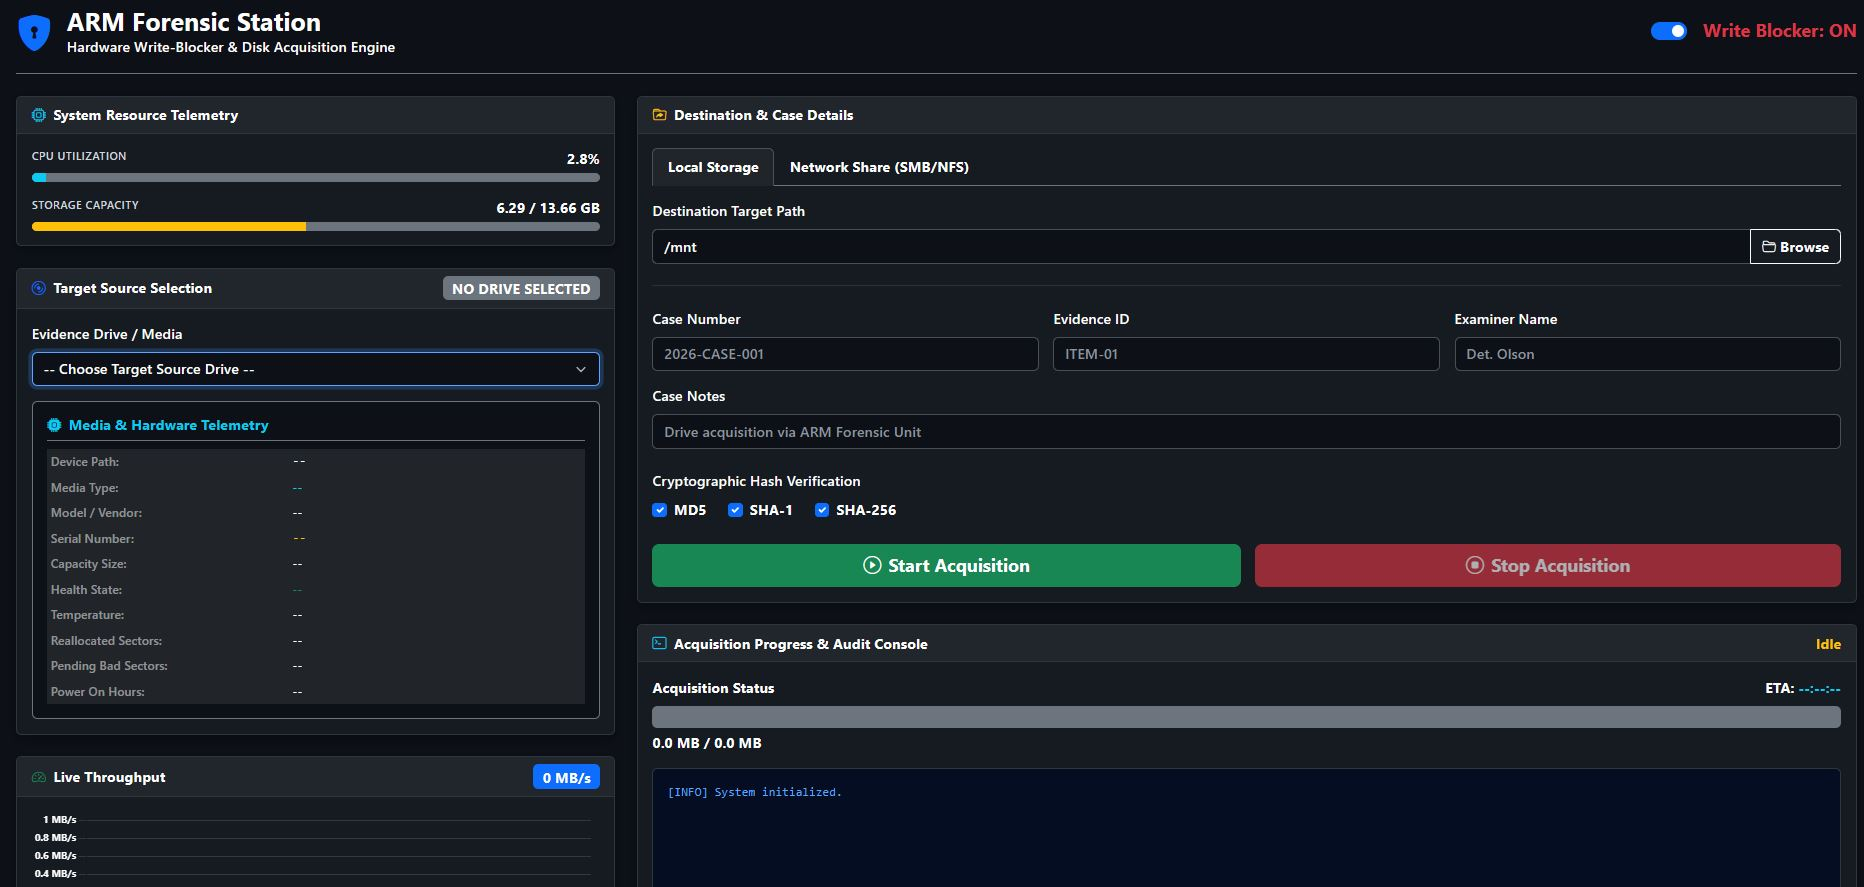
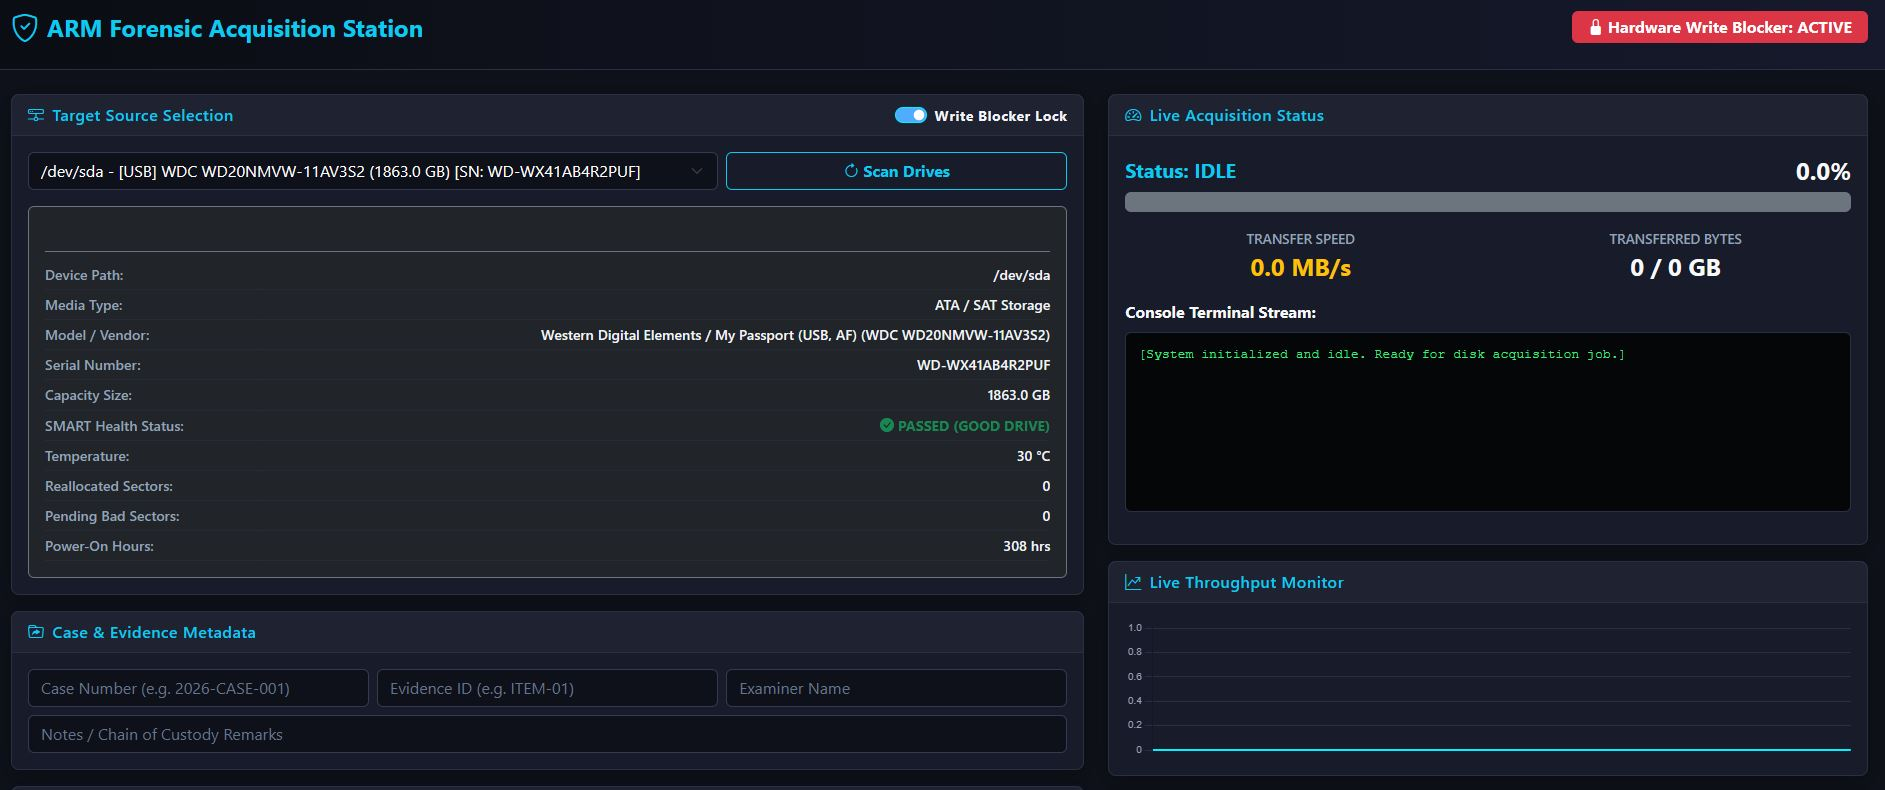
UI Updates and readme
images, docs, readme, index, main and app updated to latest

diff --git a/static/js/main.js b/static/js/main.js
@@ -116,7 +116,8 @@ async function refreshDrives() {
         currentDrivesList.forEach(dev => {
             const opt = document.createElement("option");
             opt.value = dev.device;
-            opt.innerText = `${dev.device} - ${dev.model} (${dev.size}) [SN: ${dev.serial}]`;
+            const tranType = (dev.transport || 'usb').toUpperCase();
+            opt.innerText = `${dev.device} - [${tranType}] ${dev.model} (${dev.size}) [SN: ${dev.serial}]`;
             driveSelect.appendChild(opt);
         });
     } catch (err) {
@@ -130,6 +131,7 @@ async function checkSmartTelemetry() {
 
     // Reset Labels
     document.getElementById("lblDevicePath").innerText = targetDrive || "--";
+    document.getElementById("lblMediaType").innerText = "--";
     document.getElementById("lblModel").innerText = "--";
     document.getElementById("lblSerial").innerText = "--";
     document.getElementById("lblCapacity").innerText = "--";
@@ -144,6 +146,7 @@ async function checkSmartTelemetry() {
     // Populate basic lsblk metadata first
     const driveObj = currentDrivesList.find(d => d.device === targetDrive);
     if (driveObj) {
+        document.getElementById("lblMediaType").innerText = (driveObj.transport || 'usb').toUpperCase() + " / ATA Storage";
         document.getElementById("lblModel").innerText = driveObj.model || "Generic Media";
         document.getElementById("lblSerial").innerText = driveObj.serial || "N/A";
         document.getElementById("lblCapacity").innerText = driveObj.size || "Unknown";
@@ -158,10 +161,11 @@ async function checkSmartTelemetry() {
         const data = await res.json();
 
         if (data.success) {
-            document.getElementById("lblModel").innerText = data.model || (driveObj ? driveObj.model : "Generic Disk");
+            document.getElementById("lblModel").innerText = data.vendor_model || (driveObj ? driveObj.model : "Generic Disk");
+            if (data.media_type) document.getElementById("lblMediaType").innerText = data.media_type;
             document.getElementById("lblSerial").innerText = data.serial || (driveObj ? driveObj.serial : "N/A");
             
-            const healthHtml = data.healthy ? '<span class="text-success fw-bold"><i class="bi bi-check-circle-fill me-1"></i>PASSED</span>' : '<span class="text-danger fw-bold"><i class="bi bi-exclamation-triangle-fill me-1"></i>FAILING</span>';
+            const healthHtml = data.healthy ? '<span class="text-success fw-bold"><i class="bi bi-check-circle-fill me-1"></i>PASSED (GOOD DRIVE)</span>' : '<span class="text-danger fw-bold"><i class="bi bi-exclamation-triangle-fill me-1"></i>FAILING</span>';
             document.getElementById("lblHealth").innerHTML = healthHtml;
             document.getElementById("lblTemp").innerText = data.temperature ? `${data.temperature} °C` : "N/A";
             document.getElementById("lblReallocated").innerText = data.reallocated_sectors !== undefined ? data.reallocated_sectors : "0";
@@ -321,8 +325,7 @@ async function mountNetworkDrive() {
             const destPath = document.getElementById("destPath");
             if (destPath) destPath.value = data.mount_point;
             
-            alert(`Share Mounted!
-Destination Target Path updated to: ${data.mount_point}`);
+            alert(`Share Mounted!\nDestination Target Path updated to: ${data.mount_point}`);
         } else {
             if (mountStatus) mountStatus.innerText = `Mount Error: ${data.error}`;
             alert(`Mount Failed: ${data.error}`);

diff --git a/templates/index.html b/templates/index.html
@@ -128,6 +128,7 @@
                             <table class="smart-table">
                                 <tbody>
                                     <tr><td>Device Path:</td><td id="lblDevicePath">--</td></tr>
+                                    <tr><td>Media Type:</td><td id="lblMediaType">--</td></tr>
                                     <tr><td>Model / Vendor:</td><td id="lblModel">--</td></tr>
                                     <tr><td>Serial Number:</td><td id="lblSerial">--</td></tr>
                                     <tr><td>Capacity Size:</td><td id="lblCapacity">--</td></tr>

diff --git a/app.py b/app.py
@@ -286,10 +286,24 @@ def smart_check():
         data = json.loads(res.stdout)
         
         healthy = data.get('smart_status', {}).get('passed', True)
-        model = data.get('model_name') or data.get('family_name') or 'Generic Media'
+        
+        family = data.get('model_family') or data.get('family_name')
+        model = data.get('model_name') or data.get('device', {}).get('name')
+        
+        if family and model and family.lower() not in model.lower():
+            vendor_model_str = f"{family} ({model})"
+        elif family:
+            vendor_model_str = family
+        else:
+            vendor_model_str = model or "Generic Media"
+
         serial = data.get('serial_number', 'N/A')
         temp = data.get('temperature', {}).get('current')
         
+        dev_type = data.get('device', {}).get('type', '')
+        protocol = data.get('device', {}).get('protocol', '')
+        media_type = f"{protocol.upper()} / {dev_type.upper()} Storage" if protocol else "USB / ATA Storage"
+
         reallocated = 0
         pending = 0
         power_on = None
@@ -306,7 +320,8 @@ def smart_check():
         return jsonify({
             "success": True,
             "healthy": healthy,
-            "model": model,
+            "vendor_model": vendor_model_str,
+            "media_type": media_type,
             "serial": serial,
             "temperature": temp,
             "reallocated_sectors": reallocated,
@@ -318,7 +333,7 @@ def smart_check():
         return jsonify({
             "success": False,
             "error": "SMART telemetry unsupported on this media",
-            "model": "Flash Media / Generic Drive"
+            "vendor_model": "Generic External Drive / Flash Media"
         })
 
 @app.route('/api/list_server_shares', methods=['POST'])
@@ -429,16 +444,12 @@ def toggle_write_block():
     action_flag = '--setro' if enable else '--setrw'
     
     try:
-        # Unmount active partitions first to prevent "device or resource busy" lockouts
         subprocess.run(f"sudo udevil unmount -b {drive}* 2>/dev/null || sudo umount {drive}* 2>/dev/null", shell=True)
-        
-        # Apply read-only or read-write flag via blockdev
         res = subprocess.run(['sudo', 'blockdev', action_flag, drive], capture_output=True, text=True)
         
         if res.returncode != 0:
             return jsonify({"success": False, "error": res.stderr.strip() or "blockdev execution failed"}), 500
 
-        # Query read-only state directly from kernel
         chk = subprocess.run(['sudo', 'blockdev', '--getro', drive], capture_output=True, text=True)
         is_ro = (chk.returncode == 0 and chk.stdout.strip() == '1')
 

diff --git a/README.md b/README.md
@@ -28,20 +28,15 @@ https://commons.erau.edu/jdfsl/vol11/iss1/3/
 <p align="center">
   <img src="docs/images/PIF1.JPG" width="100%" alt="ARM Forensic Station Header & Local Setup" />
   <br>
-  <em>Figure 1: Overall Dashboard and UI.</em>
+  <em>Figure 1: Overall Dashboard, Drive Check, Write Blocker Toggle and UI.</em>
 </p>
 
 <p align="center">
   <img src="docs/images/PIF2.JPG" width="100%" alt="Network Target Mapping Setup" />
   <br>
-  <em>Figure 2: Native Network Share Discovery, History Dropdown, and Protocol Mapper (SMB/NFS/FTP).</em>
+  <em>Figure 2: Native Network Share Discovery, Drive Mapping, and DD/AFF/EWF Output.</em>
 </p>
 
-<p align="center">
-  <img src="docs/images/PIF3.JPG" width="100%" alt="Drive Check & Details" />
-  <br>
-  <em>Figure 3: Drive Check and Details.</em>
-</p>
 
 ---
 
